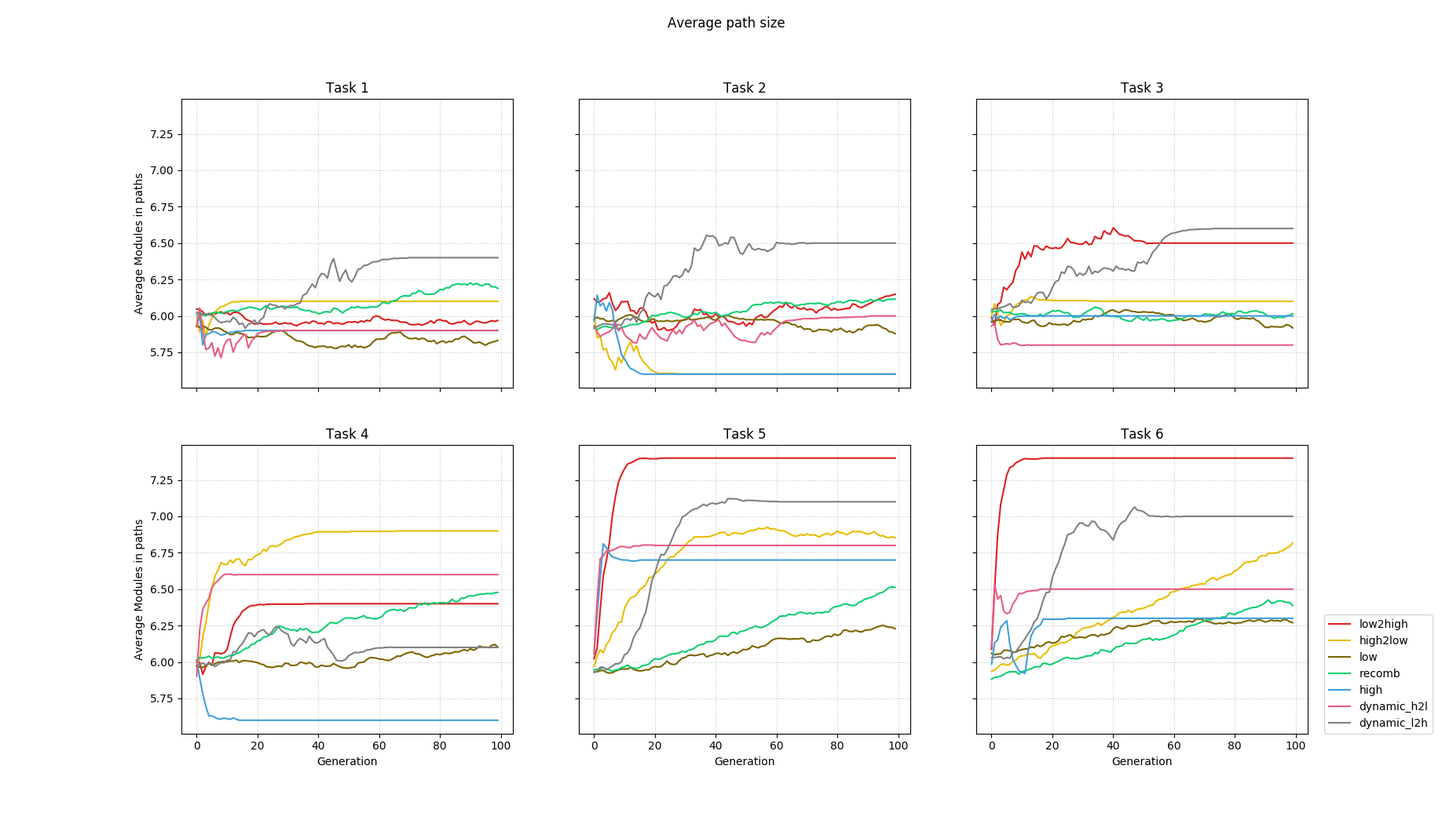
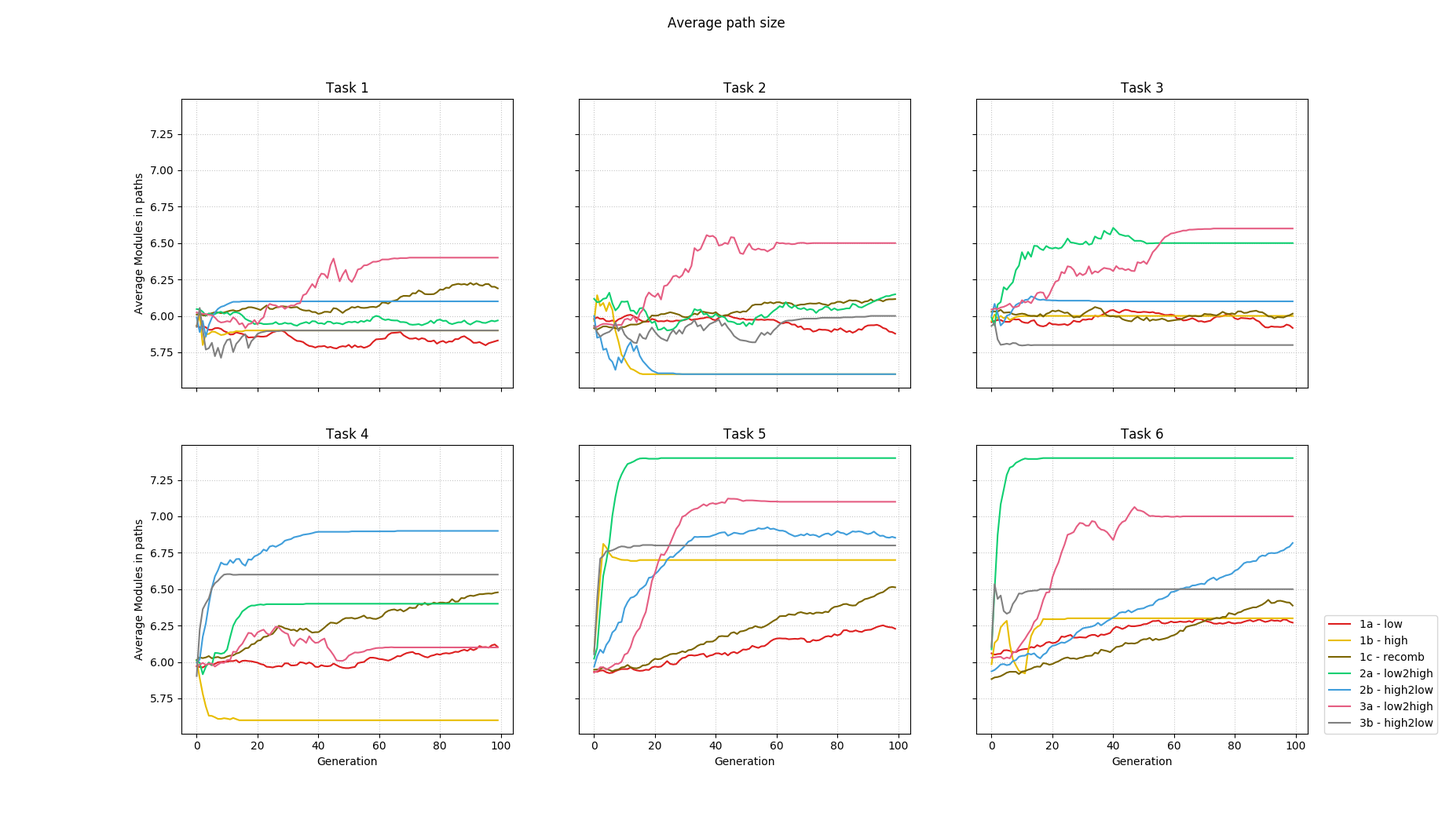
New plots. started work on results and discussion

diff --git a/Chapters/Experiments/search_algo/tournament_searching.tex b/Chapters/Experiments/search_algo/tournament_searching.tex
@@ -33,7 +33,6 @@ As mentioned in *SECTION ON SVHN* there are two formats to the SVHN set, one of 
 To increase the number of tasks, the rest of the data in SVHN could be used, and noise could be added to the images to increase the task difficulty artificially. 
 
 For both the MNIST and cSVHN set, the amount of training data have been limited to 10000 training samples and 4000 validation samples. Of these samples, MNIST have an fairly even distribution on each class while SVHN have an imbalance in the class distribution. Since the samples used are randomly selected before each experimental run, the probability of select one sample from a given class can be derived from the total amount of samples in that class (see SECTION ON SVHN  for the exact number of samples in each class).
-%BENFORDS LAW 
 
 Each experimental run will apply a searching scheme to find an optimal path in a gradually increasing knowledge base within a PathNet. This means tasks 1a always will be learned in a module set of only initialized weights and no previous knowledge. It is assumed that with a different ordering in tasks, other  accuracy and training results would have been reached, but as this tells us more about the tasks selected than it does about the search algorithms used, and as each experimental run is significantly more time consuming than in the first-path experiments, this will not be attempted here. It is considered that this reversing of subtasks within a data-set partition could be used as an simple, if time consuming and crude analysis tool.
 
@@ -76,29 +75,7 @@ As with the first-path experiments, module reuse between tasks will be an import
 
 This reuse can indirectly be viewed by viewing the total number of modules used for all tasks. This total capacity use is both a result of the reuse of modules and the module size. Which means capacity could be used as a measure of how "effective" the learning under a search algorithm is. By using few modules in each task and reusing a high number of modules from previous tasks, little new parameter optimization have to be done. This effective parameter use would possible reduce the overall validation accuracy so in order to visualize the effectiveness of training, total number of training units applied to each module in each path would be a useful metric. 
 
-To confirm the ordering of algorithms on the exploration/exploitation scale, a population diversity metric will be calculated. Morrison et al.\cite{populationDiversity} described the pair-wise Hamming distance as one of the most commonly used measures of distance in genotypic space, and is what will be used here to calculate a populations diversity as one scalar metric. In implementation, this algorithm\ref{eq:Hamming} is counting the number of genomes in all pairs of genotypes which is not identical. Another description is the edit distance between two binary genomes. 
-\begin{equation}
-    \label{eq:Hamming}
-    H=\sum_{j=1}^{j=P-1}\sum_{{j}'=j+1}^{{j}'=P}\sum_{i=1}^{i=L}\left |y_{ij}-y_{i{j}'}\right |
-\end{equation}
-
-where y is a genotype, P is the population size and L is the number of genomes in a genotype.
-
-A problem with using a pairwise Hamming distance is that the number of computations is quadratic with the size of P. Meaning the computational time is quite long, but since this metric is only to be calculated once when experimentation is completed, the restriction this puts on the experiment is negligible. However, a suggested alternate way of calculating population diversity on the basis of edit distance is by calculating the mean edit distance from every genotype to a \textit{centroid} genotype where the centroid is the average genotype in a population, and its i-th element can be given as  
-\begin{equation}
-    \label{eq:centroid}
-    \varphi_{i}=\tfrac{1}{P}\sum_{j=1}^{P}y_{ji}
-\end{equation}
-Using this vector that can be calculated linearly with respect to P, a diversity metric \(\Delta\) can be calculated as 
-\begin{equation*}
-    \Delta = \tfrac{1}{P}\sum_{j=1}^{P}\sum_{i=1}^{L}\left | \varphi_{i}-y_{ji} \right |
-\end{equation*}
-
-\begin{equation}
-    \label{eq:homemade diversity}
-    \Delta = \tfrac{1}{{P}}\sum_{j=1}^{P}\sum_{i=1}^{L}\left | (\tfrac{1}{{P}}\sum_{{j}'=1}^{P}y_{{j}'i})-y_{ji} \right |
-\end{equation}
-While it is obvious that calculation time grows linearly for larger population sizes and the computational requirements for large experiments are greatly reduced, the pair-wise Hamming distance is a tried and tested diversity metric, and is what will be used to describe the change in diversity between generations and algorithms. 
+To confirm the ordering of algorithms on the exploration/exploitation scale, a population diversity metric will be calculated\footnote{See \ref{Populationdiversity} for more details about computation} for each algorithm. The reduction in this diversity for each generation gives an indication of the convergence-rate of each algorithm. Those of high exploitation will quickly hone in on one genotype and optimize the weights along that path, while algorithms that focus on exploration will explore many more permutations of modules. 
 
 During a search for an optimal path as solution to a given task, the total training effort spent on the task is spread across the modules available for training. This means when the search is terminated and the optimal path have been locked to future back propagation, most of the updated parameters are lost due to the re-initialization of PathNet. While total computational efficiency is not something addressed in this thesis, the ratio of used training effort to the total training spent on a task is an interesting metric. This ratio is highly dependent on how quickly a population converges to one optimal path. In scenarios where this occur fairly early on in the lifetime of the search, every subsequent generation performs training where almost all is along the optimal path. We would therefore expect algorithms with a high selection pressure to be placed high in a ranking of useful training. See \ref{Search-implementation} for description of a training unit. 
 
@@ -118,25 +95,19 @@ Not to be forgotten is the fact that all paths in one generation have the same f
 
 In addition to the static tournament sizes with a winner-replace-all crossover scheme, a search with recombination is tried together with tournament size three.  This should give a selection pressure even lower than that of tournament size two. From one generation to the next, there is still only one genotypic change in the population, but where the normal tournament search replace the loosing genotype with the winner, a recombination of the two strongest phenotypes replaces the weakest genome\footnote{With some additional mutation}.  Another way to view the step from tournament size two to size three with recombination is one with focus on the genome in the offspring that takes the weaker paths place in the population. Given the recombination scheme, it can be seen as a copy of the tournament winner, but with a strong mutation probability that is scaled down during the search. This down scaling comes from the convergence of the population. When the diversity is reduced, more and more paths will have a similar subset of PathNet. When selecting two paths with the same modules, the recombination will yield a path identical to both parents. So as a population grows closer to converging to an optimal path, it will consist of similar genomes and each recombination will give offspring closer to the population median than it would in a diverse population. 
 
+
+In summary, a high tournament size is expected to shift the search algorithm in the direction of high exploitation which in turn should give a high performance on the different tasks. Low tournament sizes gives a high exploration of the different paths possible, which yields modules trained in multiple permutations of PathNet subsets. It is expected that this will lead to more module reuse, and generally have a lower capacity usage than algorithms of high selection pressure. 
+
+It is hard to tell how the validated classification accuracy on the final task will be affected by the different algorithms. As with the previous experiments, the tasks selected might prove to be to simple which would hide much of the potential in transfer learning since a path of average since should be able to learn each task \textit{tabula rasa}.
+
 % Some illustration of exploration vs exploitation: Hypothesis figure of where i think algorithms falls
 
-
-% High tournament size: 
-%% High convergance
-%% Lots of training in optimal path
-%% Low reuse
-%% Diversity is high in the beginning when the modules still havent adapted to each others interface. => Dont take advantage of pretrained modules
-
-% Low tournament size
-%%  Lower convergance
-%% Less return on investment in training
-%% more ruse
-%%% As effect of more reuse -> less used capacity in the pathnet
  
 \section{Implementation}\label{Search-implementation}
-The PathNet structure used for these experiments had three layers of 20 modules in each where each path may contain one, two or three modules in each layer. The 20 modules were selected to make sure there would be a a non-zero probability of selecting only empty modules for all tasks, even if all optimal tasks contained the maximum number of modules without any module overlap between tasks.
+\subsection{PathNet}
+The PathNet structure used for these experiments have three layers of 20 modules where each path may contain one, two or three modules in each layer. The 20 modules were selected to make sure there would be a a non-zero probability of selecting only empty modules for all tasks, even if all optimal tasks contained the maximum number of modules without any module overlap between tasks.
 
-As with the refined first-path experiments, only convolutional modules were used, but with two channels each instead of the one in first-path. To verify, a random path with these hyper-parameters were created and applied to the task of full cSVHN classification and was able to reach a satisfactory performance within a reasonable training time. All modules use a ReLU-activation function and the Adam optimizer were used during back propagation with a learning rate of 0.0001. 
+As with the refined first-path experiments, only convolutional modules with ReLU activation were used, but with two channels each instead of the one in first-path. To verify, a random path with these hyper-parameters were created and applied to the task of full cSVHN classification and was able to reach a satisfactory performance within a reasonable training time. The Adam optimizer were used during back propagation with a learning rate of 0.0001. 
 
 Each convolutional module also includes a batch-normalization operation and the last module ends in a max-pooling before the output is flattened and passed through the final unique classification layer. 
 
@@ -148,59 +119,98 @@ As there is a resolution difference between the cSVHN set and MNIST, an addition
     \label{fig:MNISTpadding}
 \end{figure}
 
+\subsection{Tournament Search}
+The tournament search uses a population size of 64, and as discussed, a winner-replaces-all replacement scheme between generations. Instead of using a accuracy threshold as in the previous experiments, the search terminates after 100 generations. A important feature of PathNet is the way learning is done. Since network back propagation occur during path fitness evaluation, the locked number of generations limit the amount of training that is allowed. In the original paper, fitness is set as the negative training error which is reached for each path after it have been trained for one training unit of 50 mini batches of size 16. This is an reasonable way of evaluating the fitness of a path when using a small tournament size, but as the tournament size have been increased tenfold for the algorithms with high selection pressure, fitness is calculated differently in these experiment. 
 
+The problem of directly using the training error as fitness is that the error changes whenever weights along a path is updated. An extreme example can be used to present the underlying problem with this. 
 
-%Hyperparameters to search
-%%% Why 100 generations locked instead of acc-threshold?
-%%% 
-%Hyperparameters to pathnet
+Take a tournament selection of 25 genomes containing 24 identical paths and one different path with some module overlap to the others and which is evaluated first. One scenario could be that the first unique path is evaluated to a high fitness, when the next path evaluated, the weights in the modules which overlap between the two are updated. The evaluated fitness of the first path is now outdated, and for every subsequent path, this fitness might get worse and worse if the parameters in the overlapping modules move to an area of high error in the context of the first paths other modules. After all fitness evaluations, the first path now stands with a high fitness, which might be larger than that of all other paths in the tournament. Then all other paths in the tournament is replaced with the winning path even if its actual fitness might have become significantly reduced during the evaluation step. Due to this, the fitness of paths in a tournament is calculated in a separate step for these experiments. After a subset of the population is selected for a tournament, all paths in that tournament are trained for one training unit. When training is completed, each path is evaluated by using a new subset of the training data for validation. This way, the order in which paths are validated does not affect the fitness score, which is the classification accuracy reached during the validation step. 
+The order of paths still affect the the training but the fitness used for selecting a tournament winner is the "true"\footnote{Fitness is still calculated on the basis of the training data-set, which means it might become overly optimistic over time. Over-fitting during training is discussed in the context of another experiment} fitness score.
 
+The same reason influence the final step of the tournament search. When the limit of a hundred generations is reached, all paths in the population is evaluated again. Since the true fitness of a path might change from one generation to the next, only the paths participating in the final tournament has its true fitness score as part of the selection of the optimal path. As with the evaluation step, the final fitness of a path is the reached classification accuracy of one training unit (50 mini-batches of 16 samples). Using an actual validation set for this step might yield better, or at least more accurate, fitnesses to use as a basis for path-selection, but that would significantly increase the run-time of an already time intensive experiment. 
 
+\section{Results}\label{Search-results}
+Due to the experimentation being time-consuming, each algorithm were run 10 times, where logs were saved after each experimental run of each algorithm. The following plots have been separated in three groups based on subject: paths, search and training. 
 
-
-\section{Results}
-
+\subsection{Paths}
 \begin{figure}[h]
     \includegraphics[width=\textwidth]{Chapters/Experiments/search_algo/figures/Average_path_size.png}
     \caption{Change in average path size for each tournament scheme plotted for each task.}
     \label{fig:search.avg_path_size}
 \end{figure}
 
-\begin{figure}[h]
-    \includegraphics[width=\textwidth]{Chapters/Experiments/search_algo/figures/Average_population_diversity_pairwise_hamming.png}
-    \caption{The average pairwise Hamming distance within each generation is used as a measure for population diversity. Each plot is (in order left to right) the different task.}
-    \label{fig:search.diversity}
-\end{figure}
+Figure \ref{fig:search.avg_path_size} visualize the average path size within the average population for all generations. Each subplot is for one Task and the search for that tasks optimal path. As each path contains between three and nine modules, the average path size is six and this is reflected in the plots where the average path size for all algorithms is around 6 for the first generations. Each search starts with a randomly initialized population of paths. Note the span of sizes plotted reach from around 5.5 to around 7.5, which indicates the average initialized size of 6 does not contain enough capacity as more often than not, the searches converges towards larger path sizes, especially for the later three tasks based on the cSVHN set. 
+
+A feature of this plot is the steep jump and quick convergence to a size for the searches with high selection pressure in for the early generations. Since mutation only causes the index of a module to change by a value between -2 and 2, the size of a path can not change during mutation \footnote{A path can not include the same module multiple times. If a module is mutated to overlap an existing one, it is removed. This causes the path to contain fewer modules, so mutated modules are added back in until original path size is reached.}. This means when algorithms with high selection pressure converges to a size early in the search, the size of paths can never change. For searches with low selection pressure (algorithm 1a, 1b, 2a for the earlier tasks and 2b for the later tasks), the generation limit of 100 is to low to let them reach an optimal size. 
 
 \begin{figure}[h]
     \includegraphics[width=\textwidth]{Chapters/Experiments/search_algo/figures/Capacity_pr_generation.png}
-    \caption{}
+    \caption{The average number of used modules during the multi-task learning sequence. Each jump is caused by the saving of an optimal path and then starting a new search for a new task. }
     \label{fig:search.capacity}
 \end{figure}
 
+In figure \ref{fig:search.capacity} we can see some of the influence of path size in the average cumulative amount of capacity used during all generations. As with plot \ref{fig:search.avg_path_size}, the curves starts at capacity 6 and for the same reason. 
+
+For task 4 the capacity usage have separated for the three algorithm groups. All algorithms with static tournament size use less modules in the total PathNet than the other algorithms, and algorithms with changing tournament size between tasks use less than group three. Note that all algorithms has a higher capacity usage than the dotted gray line which marks the amount of module reuse that would have been reached for 6 tasks if all paths had a random module selection\footnote{This value was reached with a Monte Carlo approach.}.
+
+
+\subsection{Population Diversity}
+\ref{fig:search.hamming_diversity} visualizes the average calculated population diversity for each algorithm for each task. As this metric is dependent on the size of population as well as the number of genes in a genotype, the value at one point in the generation is not depictive of anything, but instead, the overall trend of the measure indicates at what rate the algorithm converges. 
+
+\begin{figure}[h]
+    \includegraphics[width=\textwidth]{Chapters/Experiments/search_algo/figures/Average_population_diversity_reduced_hamming.png}
+    \caption{The average pairwise Hamming distance within each generation is used as a measure for population diversity. Each subplot (in order left to right) is each task in trained order.}
+    \label{fig:search.hamming_diversity}
+\end{figure}
+
+As with plot \ref{fig:search.avg_path_size}, high selection pressures lead to rapid changes in diversity. This is because the searches with high selection pressure have a high tournament size compared with the population size. When a generation is over and  the tournament winner replace all losers, the population makes a large shift diversity unless most of the tournament participants have a similar genome. At that point, the probability that the population have converged is quite large. 
+
+\begin{figure}[h]
+    \includegraphics[width=\textwidth]{Chapters/Experiments/search_algo/figures/frequency_diversity_unique_path_count.png}
+    \caption{The number of unique paths within a population. Plotted for every task and every algorithm.}
+    \label{fig:search.frequency_diversity_unique}
+\end{figure}
+
+
+The Hamming distance between two binary genomes gives what is essentially the edit distance and not a measure of the fundamental difference between the genomes. This means the Hamming metric is accurate and quite descriptive when looking at one gene at a time, but for larger genomes can be somewhat miss leading in some circumstances. If for instance, a population consists of three even groups of three types of genomes, if one of the groups is split on the two other the diversity of the whole population have gone down\footnote{This is fairly obvious since we in this scenario is left with only two types of genomes, while we started with three}, but the pair-wise Hamming distance might have gone up. Because of this, it is hard to tell if the constantly high diversity levels is caused by using pair-wise Hamming distance as metric, or for instance high mutation probabilities. This effect becomes clear when comparing plot \ref{fig:search.hamming_diversity} with plot \ref{fig:search.frequency_diversity_unique}. This plot visualizes the amount of unique paths in a population and has therefore some problems that Hamming distance does not. Imagine a population containing two of the same path. If one of these mutates and one of the modules changes, Hamming increase by one which is negligible compared with the total Hamming score. A frequency count will also increase by one, but has a max value of 64 and therefore is a significant change. 
+
 \begin{figure}[h]
     \includegraphics[width=\textwidth]{Chapters/Experiments/search_algo/figures/Module_reuse_pr_generation.png}
-    \caption{}
+    \caption{The average module reuse during the multi-task learning sequence. Each jump is caused by the saving of an optimal path, and the next task having more locked modules to reuse. The first 100 generations does not have any previously learned knowledge to reuse.}
     \label{fig:search.reuse}
 \end{figure}
 
+\subsection{Training}
 \begin{figure}[h]
     \includegraphics[width=\textwidth]{Chapters/Experiments/search_algo/figures/Training_accuracy.png}
-    \caption{}
+    \caption{Average training accuracy during search. The dotted lines is the average achieved validation accuracy for that task and that algorithm.}
     \label{fig:search.accuracy}
 \end{figure}
 
 \begin{figure}[h]
     \includegraphics[width=\textwidth]{Chapters/Experiments/search_algo/figures/Training_value.png}
-    \caption{}
+    \caption{The total amount of training in all optimal paths for each multi-task learning sequence plotted against the cumulative validation accuracy reached for that sequence. The circle size corresponds to the total number of used PathNet modules.}
     \label{fig:search.training_value}
 \end{figure}
 
 \begin{figure}[h]
     \includegraphics[width=\textwidth]{Chapters/Experiments/search_algo/figures/Used_training_ratio.png}
-    \caption{}
+    \caption{Boxplot of the ratio of training in optimal path on total training.}
     \label{fig:search.usefull_training}
 \end{figure}
 
+
 \section{Discussion}
+\subsection{Plot \ref{fig:search.avg_path_size}}
+While algorithms in group 1 and 2 follow their group rule of reaching convergence for high selection pressure, or not converge within 100 generations for the low selection pressures, algorithms 3a and 3b both converge within the 100 first generations. This could be because these searching schemes both are effective ways of optimizing the capacity in paths, or it might be that the average selection pressure within these searches is a selection pressure that works well for this generation limit. We can back up this claim by the fact that algorithms 2a and 2b both converge for task 3 and 4, which for these algorithms and these tasks, have about the same tournament size as the average tournament size in 3a and 3b. 
+
+As a paths size can not change due to mutation, it is reasonable that some of the algorithms with high selection pressure finds optimal sizes which is lower than the average initialized size of 6. This effect could lead to the conclusion that for these tasks, algorithms with high tournament size needs less capacity to solve the task. However, this could be a random effect where some of the initialized paths with fewer modules happened to have a higher fitness. As searches with lower selection pressure all row the average path size or keep it the same, it does not seem that a larger path capacity hurts fitness.
+\subsection{Plot \ref{fig:search.hamming_diversity}}
+\subsection{Plot \ref{fig:search.frequency_diversity_unique}}
+\subsection{Plot \ref{fig:search.capacity}}
+\subsection{Plot \ref{fig:search.reuse}}
+\subsection{Plot \ref{fig:search.accuracy}}
+\subsection{Plot \ref{fig:search.training_value}}
+\subsection{Plot \ref{fig:search.usefull_training}}
+
 \section{Conclusion}

diff --git a/Chapters/Apendix/diversity.tex b/Chapters/Apendix/diversity.tex
@@ -1,0 +1,72 @@
+\chapter{Diversity metric}\label{Populationdiversity}
+One of the most commonly used measures of distance in genotypic space\cite{populationDiversity} is the pair-wise Hamming distance. 
+\begin{equation}
+    \label{eq:Hamming}
+    H=\sum_{j=1}^{j=P-1}\sum_{{j}'=j+1}^{{j}'=P}\sum_{i=1}^{i=L}\left |y_{ij}-y_{i{j}'}\right |
+\end{equation}
+where P is the population size, L is the length of genome and \(y_{ji}\) is the i-th genome of genome j.
+
+The problem with this metric is that the number of computations needed is quadratic with the population size P. Meaning the computational time is quite long for large populations. In the context of the variable selection pressure experiments, this metric is calculated 42000 times\footnote{Once every generation through all path optimizations for all tasks which is 600. This is then done for every experimental run of every algorithm (70 times)}.
+
+Morrison et al. presented an alternative diversity metric which they proved to yield the same results as pair-wise Hamming, but was calculable in linear time with respect to P. Their solution were based on the concept of moment of inertia for measurement of mass distribution into arbitrarily high dimensionality space, where a centroid genome C was calculated for the population of genomes, where the i-th element of that centroid is
+\begin{equation}
+    \label{eq:centroid}
+    C_{i}=\tfrac{1}{P}\sum_{j=1}^{P}y_{ji}
+\end{equation}
+and the moment of inertia I is given as 
+\begin{equation}
+    \label{eq:Inertiadiversity}
+    I  = \sum_{i=1}^{L}\sum_{j=1}^{P}\left ( y_{ij}-C_{i} \right )^{2}
+\end{equation}
+They then go on to prove \(PI\) = pair-wise Hamming distance, in other words that pair-wise Hamming distance is the binary case of the centroid moment of inertia.
+
+Introduced here is a reduction of the pair-wise Hamming formula from having a quadratic computation time with respect to P to a linear computation time. This method does not improve on the centroid moment of inertia method with the same leap in computation time, but the algorithm derived from this formula is proved to be quicker. 
+
+
+\section{Pair-wise Hamming distance formula reduction for binary genomes}\label{Hammingreduction}
+First, reduce the problem to having a genome length L = 1 and rename index \({j}'\) to i for readability.
+\begin{equation*}
+    H_{1}=\sum_{j=1}^{P-1}\sum_{i=j+1}^{P}\left |y_{j}-y_{i}\right |
+\end{equation*}
+Because of the absolute-value, \(\left |y_{j}-y_{i}\right | =\left |y_{i}-y_{j}\right |\). Which means the nested summations can be rewritten to both span the whole of P.\footnote{This is best visualized as what are of a matrix these sums cover. The sums where both i and j goes from 1 to P would cover the whole matrix, while the original \(H_{1}\) cover a triangle in one of the matrix corners with the last sum in \ref{eq:hammingreductionsums} cover the diagonal of the matrix}
+\begin{equation}
+    \label{eq:hammingreductionsums}
+    \sum_{j=1}^{P}\sum_{i=1}^{P}\left | y_{j}-y_{i} \right | = 2\left [ \sum_{j=1}^{P-1}\sum_{i=j+1}^{P}\left | y_{j}-y_{i} \right | \right ]+ \sum_{i=1}^{P}\left | y_{i}-y_{i} \right | 
+\end{equation}
+The last sum in \ref{eq:hammingreductionsums} evaluates to zero, which means we can express \(H_{1}\) as 
+\begin{equation*}
+    H_{1} = \frac{1}{2}\sum_{j=1}^{P}\sum_{i=1}^{P}\left | y_{j}-y_{i} \right |
+\end{equation*}
+By isolating the inner summation in the new expression for \(H_{1}\) we can hold \(y_{j}\) constant to either either 0 or 1 since \(y_{i}\in\left [0, 1\right]\) for all i.
+
+If \(y_{j}=0\) then the inner sum evaluates to the number of 1's in our set of y's. 
+In the cases of \(y_{j}=0\), the inner sum evaluates to the number of 0's. This is the pair-wise Hamming formula counting the inequalities in the genome within pairs in the population.
+
+Since \(y_{i}\in\left [0, 1\right]\) we can express these sums as
+\begin{equation*}
+    \textnormal{Number of 1's in population} = \sum_{j=1}^{P}y_{j} 
+\end{equation*}
+\begin{equation*}
+    \textnormal{Number of 0's in population} = P-\sum_{j=1}^{P}y_{j}
+\end{equation*}
+
+A this point it becomes clear that what the two sums do is summing the number of ones for every zero in the population plus the number of zeros for every one. Which means we again can rewrite \(H_{1}\). 
+
+\begin{equation*}
+    H_{1} = \frac{1}{2}\left [\sum_{j=1}^{P}y_{j}\left (P - \sum_{j=1}^{P}y_{j} \right) + \left (P - \sum_{j=1}^{P}y_{j} \right)\sum_{j=1}^{P}y_{j}\right ]
+\end{equation*}
+
+\begin{equation}
+    \label{eq:linearHamming}
+    H_{1} = \sum_{j=1}^{P}y_{j}\left (P - \sum_{j=1}^{P}y_{j} \right)
+\end{equation}
+
+The generalization from a 1 dimensional genome to L-dimensions is trivial because when counting pairwise genome differences, the same result is reached whether counting a pair-wise Hamming for each genome separately and then adding them together, or the total Hamming distance is counter for all genes. Ergo, for population of size P of binary genomes of length L
+\begin{equation}
+    \label{eq:proved}
+    \sum_{j=1}^{j=P-1}\sum_{{j}'=j+1}^{{j}'=P}\sum_{i=1}^{i=L}\left |y_{ij}-y_{i{j}'}\right | = \sum_{i=1}^{L}\sum_{j=1}^{P}y_{j}\left (P - \sum_{j=1}^{P}y_{j} \right)
+\end{equation}
+
+This version of the Hamming distance can be calculated in 2LP which is a small improvement on the centroid moment of inertia method which is ran in \(4LP + L\) calculations. 
+
+

diff --git a/Chapters/Experiments/search_algo/old_diversity_text.tex b/Chapters/Experiments/search_algo/old_diversity_text.tex
@@ -1,0 +1,44 @@
+\chapter{}
+ Morrison et al.\cite{populationDiversity} described the pair-wise Hamming distance as one of the most commonly used measures of distance in genotypic space, and is what will be used here to calculate a populations diversity as one scalar metric. In implementation, this algorithm\ref{eq:Hamming} is counting the number of genomes in all pairs of genotypes which is not identical. Another description is the edit distance between two binary genomes. 
+
+
+where y is a genotype, P is the population size and L is the number of genomes in a genotype.
+
+A problem with using a pairwise Hamming distance is that the number of computations is quadratic with the size of P. Meaning the computational time is quite long, but since this metric is only to be calculated once when experimentation is completed, the restriction this puts on the experiment is negligible. However, a suggested alternate way of calculating population diversity on the basis of edit distance is by calculating the mean edit distance from every genotype to a \textit{centroid} genotype where the centroid is the average genotype in a population, and its i-th element can be given as  
+\begin{equation}
+    \label{eq:centroid}
+    \varphi_{i}=\tfrac{1}{P}\sum_{j=1}^{P}y_{ji}
+\end{equation}
+Using this vector that can be calculated linearly with respect to P, a diversity metric \(\Delta\) can be calculated as 
+\begin{equation*}
+    \Delta = \tfrac{1}{P}\sum_{j=1}^{P}\sum_{i=1}^{L}\left | \varphi_{i}-y_{ji} \right |
+\end{equation*}
+
+\begin{equation}
+    \label{eq:homemade diversity}
+    \Delta = \tfrac{1}{{P}}\sum_{j=1}^{P}\sum_{i=1}^{L}\left | (\tfrac{1}{{P}}\sum_{{j}'=1}^{P}y_{{j}'i})-y_{ji} \right |
+\end{equation}
+While it is obvious that calculation time grows linearly for larger population sizes and the computational requirements for large experiments are greatly reduced, the pair-wise Hamming distance is a tried and tested diversity metric, and is what will be used to describe the change in diversity between generations and algorithms. 
+
+%%%%%%%%%%%%%%%%%%%%%%%%%%
+\begin{equation}
+    \label{eq:linearHamming}
+    \sum_{j=1}^{j=P-1}\sum_{{j}'=j+1}^{{j}'=P}\sum_{i=1}^{i=L}\left |y_{ij}-y_{i{j}'}\right | = \sum_{i=1}^{L}\left [ \left (  P-\sum_{j=1}^{P}y_{ji} \right )\sum_{j=1}^{P}y_{ji} \right ]
+\end{equation}
+
+%%%%%%%%%%%%%%%%%%%%%%%%%%
+\begin{figure}
+    \label{fig:diversity_comparison}
+    \begin{subfigure}[h]{0.49\linewidth}
+        \label{fig:diversity_comparison:Hamming}
+        \includegraphics[width=\linewidth]{Chapters/Experiments/search_algo/figures/diversity_showcase_hamming.png}
+        \caption{Pair-wise Hamming distance.}
+    \end{subfigure}
+    \hfill
+    \begin{subfigure}[h]{0.49\linewidth}
+        \label{fig:diversity_comparison:homemade}
+        \includegraphics[width=\linewidth]{Chapters/Experiments/search_algo/figures/diversity_showcase_homemade.png}
+        \caption{\(\Delta\)-diversity metric}
+    \end{subfigure}%
+    \caption{A comparison of pair-wise Hamming distance and \(\Delta\)-diversity. The diversity is the average population diversity for each generation during the search for an optimal path for task 1a. Note the similar curves for each algorithm and the scale on the y-axis}
+\end{figure}

diff --git a/Chapters/Apendix/showcase.tex b/Chapters/Apendix/showcase.tex
@@ -17,14 +17,10 @@
 
 \begin{document}
 
-\title{Experiments}
-\subtitle{Second draft}
+\title{Appendix}
 
 \maketitle
-
-
-%\input{first_path/first_path_search}
-\input{search_algo/tournament_searching}
-
+\tableofcontents
+\input{diversity.tex}
 
 \end{document}
